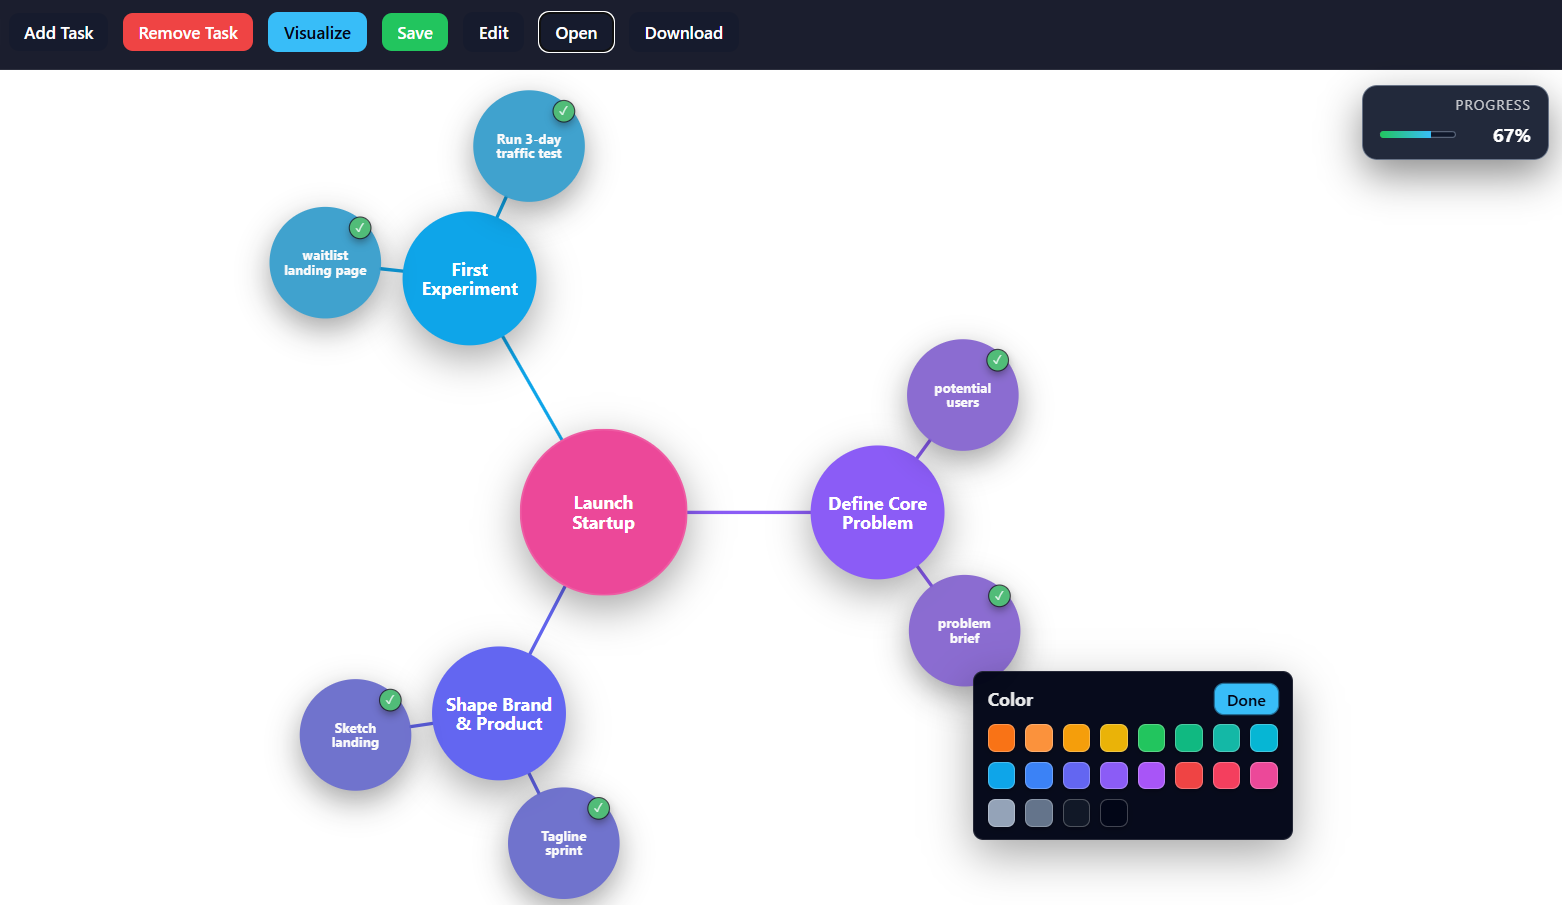
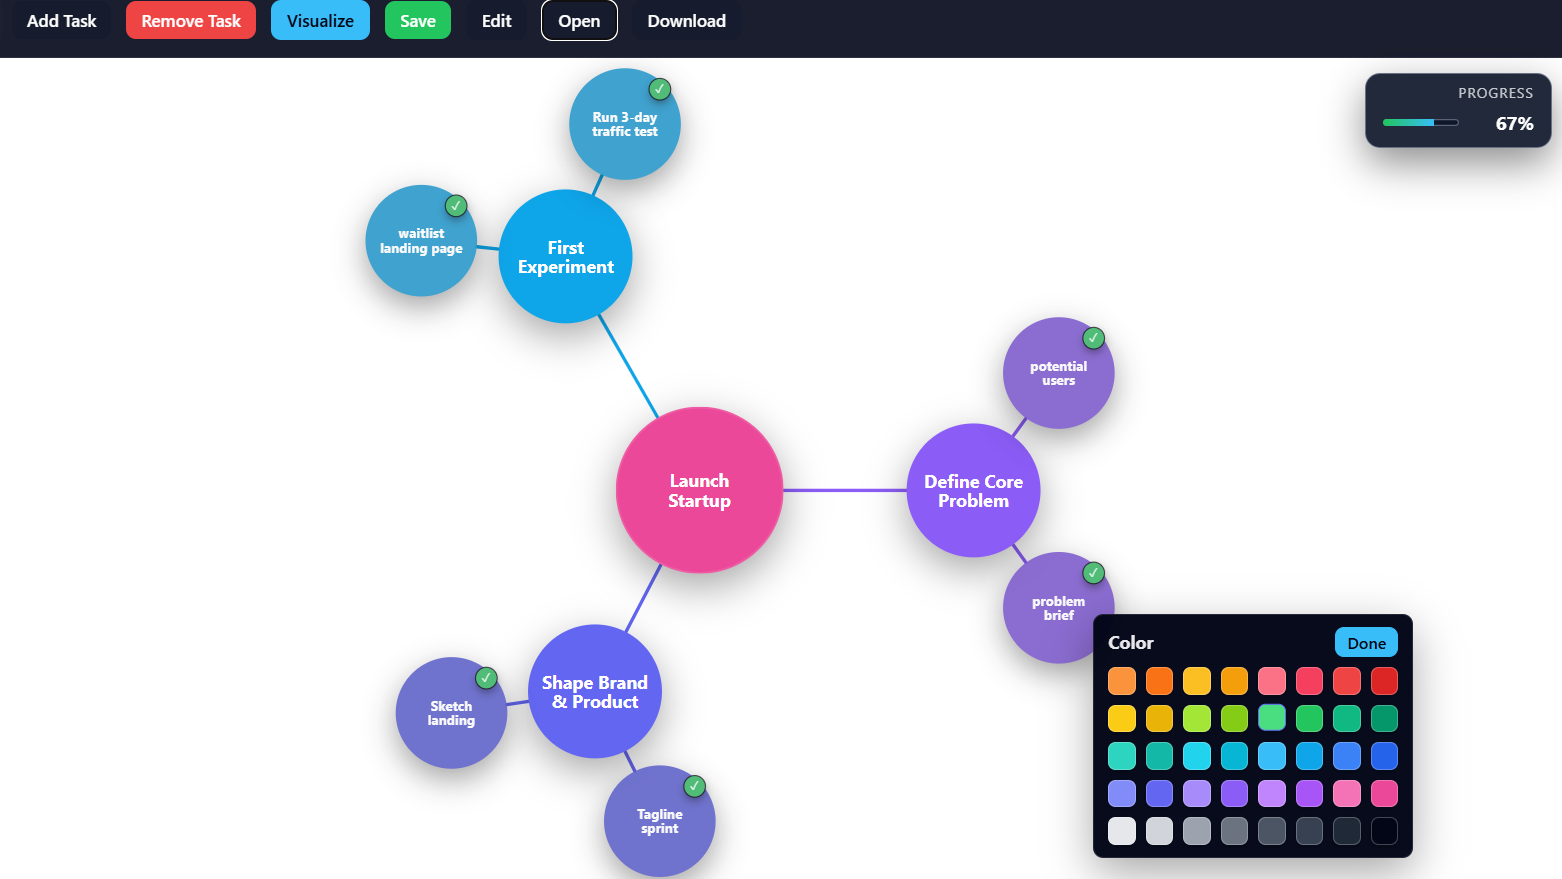
Update MapView mit Remove-Mode

Changed region(s): [[0.1844, 0.3379, 0.9219, 1.0], [0.0, 0.0, 1.0, 0.43]]

diff --git a/src/MapView.tsx b/src/MapView.tsx
@@ -134,7 +134,6 @@ const COLOR_SWATCHES = [
   "#020617",
 ];
 
-
 const R_CENTER = 75;
 const R_ROOT = 60;
 const R_CHILD = 50;
@@ -300,7 +299,77 @@ const MapView = forwardRef<MapApi, MapViewProps>(function MapView(props, ref) {
   const progressPercent =
     totalTasks === 0 ? 0 : Math.round((doneCount / totalTasks) * 100);
 
-  /* ---------- Node-Drag ---------- */
+  /* ---------- Long-Press für Touch (Nodes & Edges) ---------- */
+
+  const touchLongPressTimer = useRef<number | null>(null);
+  const touchLongPressTarget = useRef<
+    | {
+        kind: "node";
+        nodeId: string;
+        clientX: number;
+        clientY: number;
+      }
+    | {
+        kind: "edge";
+        parentId: string;
+        childId: string;
+        clientX: number;
+        clientY: number;
+      }
+    | null
+  >(null);
+
+  const clearTouchLongPress = () => {
+    if (touchLongPressTimer.current !== null) {
+      window.clearTimeout(touchLongPressTimer.current);
+      touchLongPressTimer.current = null;
+    }
+    touchLongPressTarget.current = null;
+  };
+
+  const startTouchLongPressForNode = (
+    nodeId: string,
+    clientX: number,
+    clientY: number
+  ) => {
+    clearTouchLongPress();
+    touchLongPressTarget.current = {
+      kind: "node",
+      nodeId,
+      clientX,
+      clientY,
+    };
+    touchLongPressTimer.current = window.setTimeout(() => {
+      const t = touchLongPressTarget.current;
+      if (!t || t.kind !== "node") return;
+      openColorMenuForNode(t.clientX, t.clientY, t.nodeId);
+      clearTouchLongPress();
+    }, 450);
+  };
+
+  const startTouchLongPressForEdge = (
+    parentId: string,
+    childId: string,
+    clientX: number,
+    clientY: number
+  ) => {
+    clearTouchLongPress();
+    touchLongPressTarget.current = {
+      kind: "edge",
+      parentId,
+      childId,
+      clientX,
+      clientY,
+    };
+    touchLongPressTimer.current = window.setTimeout(() => {
+      const t = touchLongPressTarget.current;
+      if (!t || t.kind !== "edge") return;
+      openColorMenuForEdge(t.clientX, t.clientY, t.parentId, t.childId);
+      clearTouchLongPress();
+    }, 450);
+  };
+
+  /* ---------- Node-Drag (Desktop / Maus) ---------- */
   const vDrag = useRef<{
     id: string;
     startClient: { x: number; y: number };
@@ -386,6 +455,7 @@ const MapView = forwardRef<MapApi, MapViewProps>(function MapView(props, ref) {
 
   const onPointerDownMap = (e: React.PointerEvent) => {
     if (!active) return;
+    clearTouchLongPress();
     if (nodeDragging.current) return;
     activePointers.current.set(e.pointerId, { x: e.clientX, y: e.clientY });
 
@@ -437,6 +507,7 @@ const MapView = forwardRef<MapApi, MapViewProps>(function MapView(props, ref) {
   };
 
   const onPointerUpMap = (e: React.PointerEvent) => {
+    clearTouchLongPress();
     activePointers.current.delete(e.pointerId);
     if (activePointers.current.size < 2) {
       pinching.current = false;
@@ -897,6 +968,21 @@ const MapView = forwardRef<MapApi, MapViewProps>(function MapView(props, ref) {
           strokeLinecap="round"
           style={{ pointerEvents: "stroke" }}
           onContextMenu={(e) => onEdgeContextMenu(e, parentId, childId)}
+          onPointerDown={(e) => {
+            if (e.pointerType === "touch") {
+              if (removeMode) return;
+              e.stopPropagation();
+              e.preventDefault();
+              startTouchLongPressForEdge(
+                parentId,
+                childId,
+                e.clientX,
+                e.clientY
+              );
+            }
+          }}
+          onPointerUp={clearTouchLongPress}
+          onPointerCancel={clearTouchLongPress}
         />
         <line
           x1={x1}
@@ -1037,8 +1123,16 @@ const MapView = forwardRef<MapApi, MapViewProps>(function MapView(props, ref) {
               onToggleRemoveTarget(kid.id);
               return;
             }
+            if (e.pointerType === "touch") {
+              e.stopPropagation();
+              e.preventDefault();
+              startTouchLongPressForNode(kid.id, e.clientX, e.clientY);
+              return;
+            }
             startNodeDrag(kid.id, e);
           }}
+          onPointerUp={clearTouchLongPress}
+          onPointerCancel={clearTouchLongPress}
           onContextMenu={(e) => onNodeContextMenu(e, kid.id)}
           lang={
             document.documentElement.lang || navigator.language || "en"
@@ -1083,7 +1177,11 @@ const MapView = forwardRef<MapApi, MapViewProps>(function MapView(props, ref) {
         "skillmap-wrapper" + (removeMode ? " skillmap-remove-mode" : "")
       }
       ref={wrapperRef}
-      style={{ touchAction: "none" }}
+      style={{
+        touchAction: "none",
+        userSelect: "none",
+        WebkitUserSelect: "none",
+      }}
       onPointerDown={onPointerDownMap}
       onPointerMove={onPointerMoveMap}
       onPointerUp={onPointerUpMap}
@@ -1174,6 +1272,16 @@ const MapView = forwardRef<MapApi, MapViewProps>(function MapView(props, ref) {
               if (removeMode) return;
               openColorMenuForNode(e.clientX, e.clientY, CENTER_ID);
             }}
+            onPointerDown={(e) => {
+              if (removeMode) return;
+              if (e.pointerType === "touch") {
+                e.stopPropagation();
+                e.preventDefault();
+                startTouchLongPressForNode(CENTER_ID, e.clientX, e.clientY);
+              }
+            }}
+            onPointerUp={clearTouchLongPress}
+            onPointerCancel={clearTouchLongPress}
             lang={
               document.documentElement.lang || navigator.language || "en"
             }
@@ -1233,8 +1341,16 @@ const MapView = forwardRef<MapApi, MapViewProps>(function MapView(props, ref) {
                       onToggleRemoveTarget(root.id);
                       return;
                     }
+                    if (e.pointerType === "touch") {
+                      e.stopPropagation();
+                      e.preventDefault();
+                      startTouchLongPressForNode(root.id, e.clientX, e.clientY);
+                      return;
+                    }
                     startNodeDrag(root.id, e);
                   }}
+                  onPointerUp={clearTouchLongPress}
+                  onPointerCancel={clearTouchLongPress}
                   onContextMenu={(e) => onNodeContextMenu(e, root.id)}
                   lang={
                     document.documentElement.lang ||
